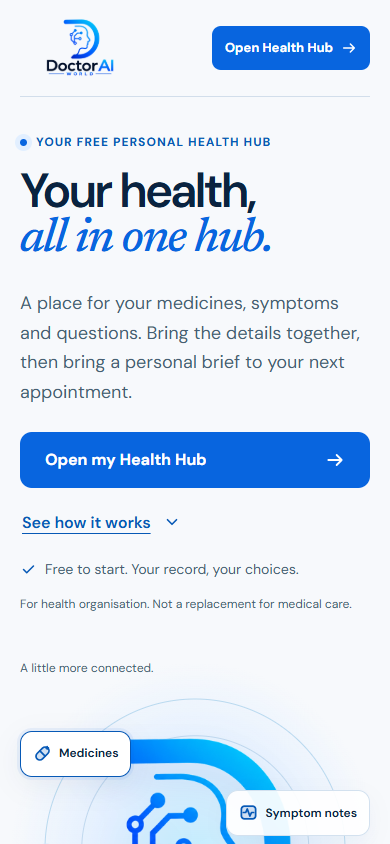
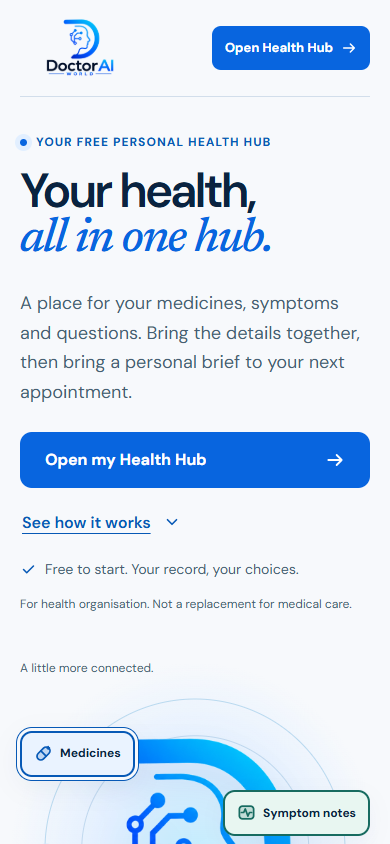
Give homepage topics soft colours and bold themed outlines

Changed region(s): [[0.5846, 0.9242, 0.9538, 1.0], [0.0308, 0.8626, 0.3692, 0.9242], [0.5538, 0.9242, 0.5846, 0.9858]]

diff --git a/welcome.css b/welcome.css
@@ -12,6 +12,14 @@
   --home-paper: #f7f9fc;
   --home-line: #d2deeb;
   --home-gutter: clamp(20px, 4vw, 64px);
+  --home-medicines-surface: #eaf3ff;
+  --home-medicines-accent: #0759b6;
+  --home-symptoms-surface: #e8f6f1;
+  --home-symptoms-accent: #176b60;
+  --home-appointments-surface: #f2edfc;
+  --home-appointments-accent: #65439b;
+  --home-visit-surface: #fff4de;
+  --home-visit-accent: #805418;
 }
 * { box-sizing: border-box; }
 html { scroll-behavior: smooth; scroll-padding-top: 24px; }
@@ -78,20 +86,24 @@ h1, h2, h3 { margin: 0; }
 .home-logo-tilt { position: absolute; inset: -13% 4% -5%; transform: perspective(850px) rotateX(var(--home-tilt-x, 0deg)) rotateY(var(--home-tilt-y, 0deg)); transition: transform .35s ease-out; }
 .home-hero-logo { display: block; width: 100%; height: 100%; object-fit: contain; filter: drop-shadow(0 18px 16px #0759b61c); animation: home-logo-float 7s ease-in-out infinite; animation-play-state: paused; }
 .home-motion-ready:not(.home-motion-paused) :is(.home-hero-logo, .home-orbit-track) { animation-play-state: running; }
-.home-orbit-topic { position: absolute; display: inline-flex; align-items: center; gap: 10px; min-height: 52px; max-width: 48%; padding: 13px 17px; border: 1px solid #d3e1ef; border-radius: 15px; background: #ffffffed; color: var(--home-ink); box-shadow: 0 7px 24px #0a234009; font-size: 14px; font-weight: 600; line-height: 1.4; text-align: left; cursor: pointer; transition: border-color .2s ease, box-shadow .2s ease, transform .2s ease; }
-.home-orbit-topic > span { display: inline-flex; width: 23px; height: 23px; flex: 0 0 23px; color: var(--home-blue); }
-.home-orbit-topic:hover { transform: translateY(-3px); border-color: #85b8ed; box-shadow: 0 10px 24px #0a234010; }
-.home-orbit-topic[aria-pressed="true"] { border-color: var(--home-blue); background: #fff; box-shadow: 0 0 0 3px #0865df12, 0 8px 28px #0a234010; }
+[data-home-theme="medicines"], .home-orbit-medicines { --home-topic-surface: var(--home-medicines-surface); --home-topic-accent: var(--home-medicines-accent); }
+[data-home-theme="symptoms"], .home-orbit-symptoms { --home-topic-surface: var(--home-symptoms-surface); --home-topic-accent: var(--home-symptoms-accent); }
+[data-home-theme="appointments"], .home-orbit-appointments { --home-topic-surface: var(--home-appointments-surface); --home-topic-accent: var(--home-appointments-accent); }
+[data-home-theme="visit"], .home-orbit-visit { --home-topic-surface: var(--home-visit-surface); --home-topic-accent: var(--home-visit-accent); }
+.home-orbit-topic { position: absolute; display: inline-flex; align-items: center; gap: 10px; min-height: 52px; max-width: 48%; padding: 11px 15px; border: 2px solid var(--home-topic-accent); border-radius: 15px; background: var(--home-topic-surface); color: var(--home-ink); box-shadow: 0 7px 24px #0a234009; font-size: 14px; font-weight: 700; line-height: 1.4; text-align: left; cursor: pointer; transition: box-shadow .2s ease, transform .2s ease; }
+.home-orbit-topic > span { display: inline-flex; width: 25px; height: 25px; flex: 0 0 25px; color: var(--home-topic-accent); }
+.home-orbit-topic:hover { transform: translateY(-3px); box-shadow: 0 10px 24px #0a234010; }
+.home-orbit-topic[aria-pressed="true"] { box-shadow: 0 0 0 3px var(--home-paper), 0 0 0 4px var(--home-topic-accent), 0 8px 28px #0a234010; }
 .home-orbit-medicines { top: 15%; left: 0; }
 .home-orbit-symptoms { top: 28%; right: 0; }
 .home-orbit-appointments { bottom: 22%; left: 1%; }
 .home-orbit-visit { bottom: 14%; right: 3%; }
 .home-orbit-caption { position: absolute; bottom: 0; width: 100%; margin: 0; color: var(--home-muted); text-align: center; font-size: 12px; }
-.home-topic-detail { position: relative; display: flex; align-items: center; justify-content: space-between; gap: 22px; min-height: 156px; margin-top: 18px; padding: 22px 24px; border: 1px solid #ccdfef; border-radius: 20px; background: #ffffffc9; box-shadow: 0 12px 32px #173b6705; }
-.home-topic-kicker { margin: 0 0 6px; color: var(--home-blue); text-transform: uppercase; letter-spacing: .12em; font-size: 12px; font-weight: 700; }
+.home-topic-detail { position: relative; display: flex; align-items: center; justify-content: space-between; gap: 22px; min-height: 156px; margin-top: 18px; padding: 22px 24px; border: 2px solid var(--home-topic-accent); border-radius: 20px; background: var(--home-topic-surface); box-shadow: 0 12px 32px #173b6705; }
+.home-topic-kicker { margin: 0 0 6px; color: var(--home-topic-accent); text-transform: uppercase; letter-spacing: .12em; font-size: 12px; font-weight: 700; }
 .home-topic-detail h2 { font-size: 18px; font-weight: 600; letter-spacing: -.025em; line-height: 1.35; }
 .home-topic-detail [data-home-topic-copy] { margin: 8px 0 0; color: var(--home-muted); font-size: 14px; line-height: 1.6; }
-.home-topic-link { display: inline-flex; align-items: center; justify-content: space-between; gap: 12px; min-width: 114px; max-width: 140px; min-height: 48px; font-size: 13px; font-weight: 600; line-height: 1.5; text-decoration: none; }
+.home-topic-link { display: inline-flex; align-items: center; justify-content: space-between; gap: 12px; min-width: 114px; max-width: 140px; min-height: 48px; color: var(--home-topic-accent); font-size: 13px; font-weight: 600; line-height: 1.5; text-decoration: none; }
 .home-topic-link:hover { text-decoration: underline; }
 .home-topic-link > span { display: inline-flex; width: 18px; height: 18px; flex: 0 0 18px; }
 @keyframes home-logo-float { 0%, 100% { transform: translateY(0); } 50% { transform: translateY(-9px); } }
@@ -190,6 +202,7 @@ h1, h2, h3 { margin: 0; }
 .home-footer nav { display: flex; flex-direction: column; align-items: flex-start; gap: 2px; }
 .home-footer nav a { display: inline-flex; align-items: center; min-height: 44px; font-size: 14px; color: var(--home-ink); }
 .home-button svg, .home-text-link svg, .home-icon svg, .home-topics svg, .home-brief-rows svg, .home-destination svg, .home-resources svg, .home-orbit-topic svg, .home-topic-link svg, .home-control-note svg { display: block; width: 100%; height: 100%; fill: none; stroke: currentColor; stroke-width: 2; stroke-linecap: round; stroke-linejoin: round; }
+.home-orbit-topic svg { stroke-width: 2.6; }
 @media (max-width: 1080px) {
   .home-nav { gap: 18px; }
   .home-nav-page { display: none !important; }

diff --git a/index.html b/index.html
@@ -64,7 +64,7 @@
         <p class="home-hero-limit">For health organisation. Not a replacement for medical care.</p>
       </div>
 
-      <div class="home-universe" data-home-universe>
+      <div class="home-universe" data-home-universe data-home-theme="medicines">
         <div class="home-universe-toolbar">
           <p class="home-universe-label">A little more connected.</p>
           <button class="home-motion-control" type="button" data-home-motion hidden>Pause animation</button>

diff --git a/welcome.js b/welcome.js
@@ -24,6 +24,7 @@
     button.addEventListener('click', () => {
       const topic = topics[button.dataset.homeTopic];
       if (!topic) return;
+      universe.dataset.homeTheme = button.dataset.homeTopic;
       buttons.forEach(item => item.setAttribute('aria-pressed', String(item === button)));
       title.textContent = topic.title;
       copy.textContent = topic.copy;

diff --git a/docs/design/homepage-20261015/README.md b/docs/design/homepage-20261015/README.md
@@ -11,6 +11,19 @@ This homepage makes the existing DoctorAI brand the centrepiece: the canonical h
 - Work was done in a fresh clone and isolated branch. No other local checkout or M-folder work was edited.
 - No generated artwork, video, AI requests or paid services were used.
 
+## Four icon themes
+
+The four hero entry points have distinct soft surfaces, 2px accent outlines, bolder 2.6px SVG strokes and navy labels. Selecting a topic also applies its surface/accent pair to the detail card and its destination link. The selected state retains an extra outline ring and `aria-pressed`.
+
+| Topic | Surface | Icon / outline | Destination | Icon and link contrast |
+| --- | --- | --- | --- | --- |
+| Medicines | `#EAF3FF` | `#0759B6` | `/health-hub#medications` | 6.03:1 |
+| Symptom notes | `#E8F6F1` | `#176B60` | `/health-hub#symptoms` | 5.71:1 |
+| Appointments | `#F2EDFC` | `#65439B` | `/health-hub#appointments` | 6.47:1 |
+| Visit prep | `#FFF4DE` | `#805418` | `/health-hub#visit-prep` | 6.02:1 |
+
+Navy labels (`#0A2340`) exceed 13:1 contrast on every surface; supporting copy (`#465F73`) exceeds 5.8:1. These values were measured from browser computed styles. [Exact tokens and ownership handoff](theme-tokens.md) are provided for the separately owned destination-page themes; no destination page was changed in this revision.
+
 ## Screenshots
 
 These are **local source previews**, served with the repository's Content Security Policy. They are not production or Vercel Preview screenshots. Final captures use reduced motion for stable framing; animation behaviour was checked separately.

diff --git a/docs/design/homepage-20261015/theme-tokens.md b/docs/design/homepage-20261015/theme-tokens.md
@@ -1,0 +1,14 @@
+# Shared four-topic theme mapping
+
+Homepage owner: PR70, branch `codex/astra-homepage-20261015`. Destination pages remain owned by Luna. These tokens are ready for the corresponding page themes.
+
+| Topic | Soft surface | Accent / bold outline | Homepage token prefix | Destination |
+| --- | --- | --- | --- | --- |
+| Medicines | `#EAF3FF` | `#0759B6` | `--home-medicines-` | `/health-hub#medications` |
+| Symptom notes | `#E8F6F1` | `#176B60` | `--home-symptoms-` | `/health-hub#symptoms` |
+| Appointments | `#F2EDFC` | `#65439B` | `--home-appointments-` | `/health-hub#appointments` |
+| Visit prep | `#FFF4DE` | `#805418` | `--home-visit-` | `/health-hub#visit-prep` |
+
+Each prefix has `surface` and `accent` tokens. Labels use navy `#0A2340`; supporting copy uses `#465F73`. Homepage badges use a 2px accent border and 2.6 SVG stroke width. The selected topic detail card adopts the same surface/accent pair, including its link. Selected state also has an extra outline ring and `aria-pressed`, so it is not indicated by colour alone. Existing reduced-motion, forced-colour, links and pause controls remain.
+
+The homepage revision changes only `index.html`, `welcome.css`, `welcome.js` and homepage QA evidence. Do not apply these tokens to clinical warning/severity colours. No destination page or shared stylesheet has been edited by the homepage owner.
